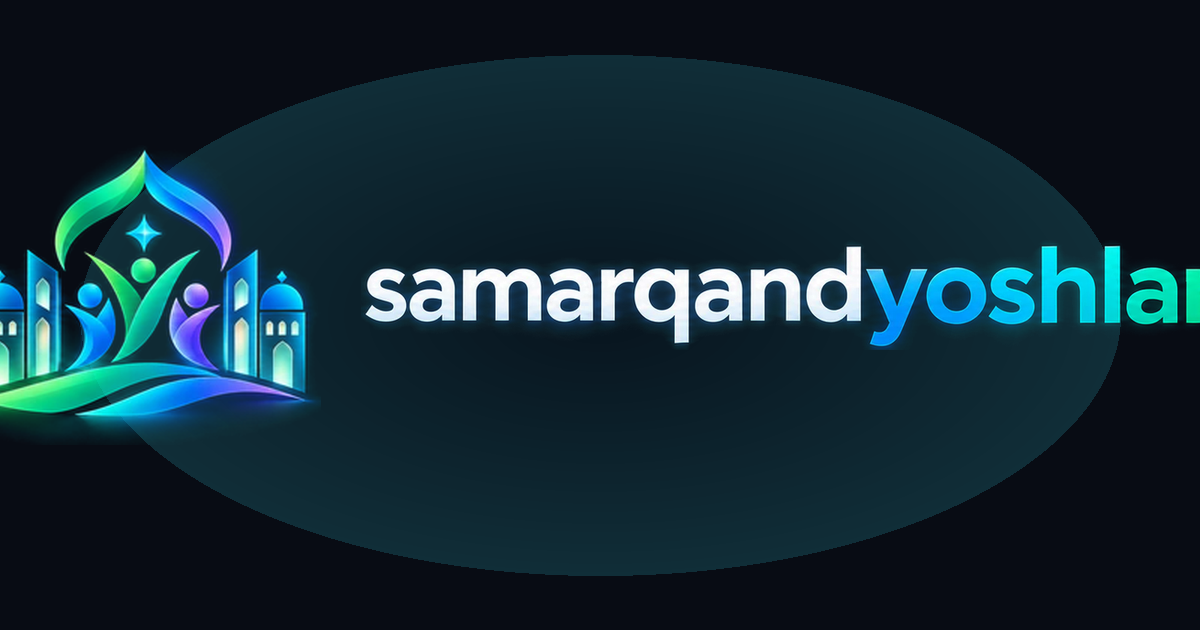
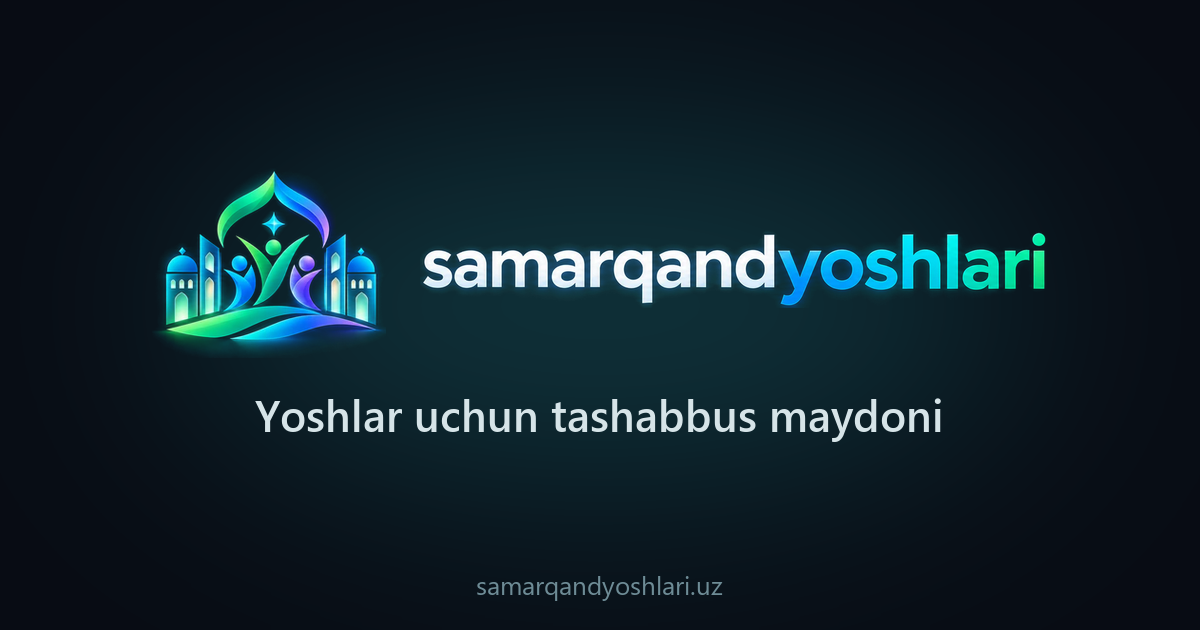
Yangiliklar: «Yoshlar hayotidan xabarlar»; sayt sarlavhasi va ulashish rasmi yangilandi

Changed region(s): [[0.0, 0.0603, 1.0, 0.9651]]

diff --git a/app/(site)/yangiliklar/page.tsx b/app/(site)/yangiliklar/page.tsx
@@ -14,7 +14,7 @@ import type { News } from "@/lib/types";
 export const metadata: Metadata = {
     alternates: { canonical: "/yangiliklar" },
     title: "Yangiliklar",
-    description: "Kengash faoliyati, qarorlar va yosh tadbirkorlar hayotidan xabarlar.",
+    description: "Samarqand yoshlari hayotidan xabarlar: tadbirlar, uchrashuvlar va yutuqlar.",
 };
 
 /** Xabarlar oddiy ketma-ketlikda turadi — kategoriya bo'yicha ajratilmaydi. */
@@ -31,10 +31,10 @@ export default async function NewsPage() {
                 eyebrow="Yangiliklar"
                 title={
                     <>
-                        Kengash <span className="text-accent">hayotidan</span> xabarlar
+                        Yoshlar <span className="text-accent">hayotidan</span> xabarlar
                     </>
                 }
-                lead="Qarorlar, uchrashuvlar, natijalar va yosh tadbirkorlar muvaffaqiyati — bir joyda."
+                lead="Tadbirlar, uchrashuvlar, natijalar va yoshlar muvaffaqiyati — bir joyda."
             />
 
             <section className="container-page py-8 md:py-10">

diff --git a/lib/seo.ts b/lib/seo.ts
@@ -14,8 +14,8 @@ export const absoluteUrl = (path: string) => `${SITE_URL}${path.startsWith("/") 
 export const organizationSchema = () => ({
     "@context": "https://schema.org",
     "@type": "Organization",
-    name: "Samarqand yoshlari — Yosh Tadbirkorlar Kengashi",
-    alternateName: "sam-yosh tadbirkor",
+    name: "Samarqand yoshlari",
+    alternateName: "Yoshlar uchun tashabbus maydoni",
     url: SITE_URL,
     logo: absoluteUrl("/logo/belgi-kun.webp"),
     description:

diff --git a/app/layout.tsx b/app/layout.tsx
@@ -25,7 +25,7 @@ const sora = Sora({
 export const metadata: Metadata = {
     metadataBase: new URL("https://samarqandyoshlari.uz"),
     title: {
-        default: "Samarqand yoshlari — Yosh Tadbirkorlar Kengashi",
+        default: "Samarqand yoshlari — Yoshlar uchun tashabbus maydoni",
         template: "%s — Samarqand yoshlari",
     },
     description:

diff --git a/app/(site)/page.tsx b/app/(site)/page.tsx
@@ -95,7 +95,7 @@ const SECTIONS: {
     {
         href: "/yangiliklar",
         title: "Yangiliklar",
-        description: "Kengash faoliyati, qarorlar va yosh tadbirkorlar hayotidan xabarlar.",
+        description: "Samarqand yoshlari hayotidan xabarlar: tadbirlar, uchrashuvlar va yutuqlar.",
         icon: Newspaper,
         tone: "rose",
     },
